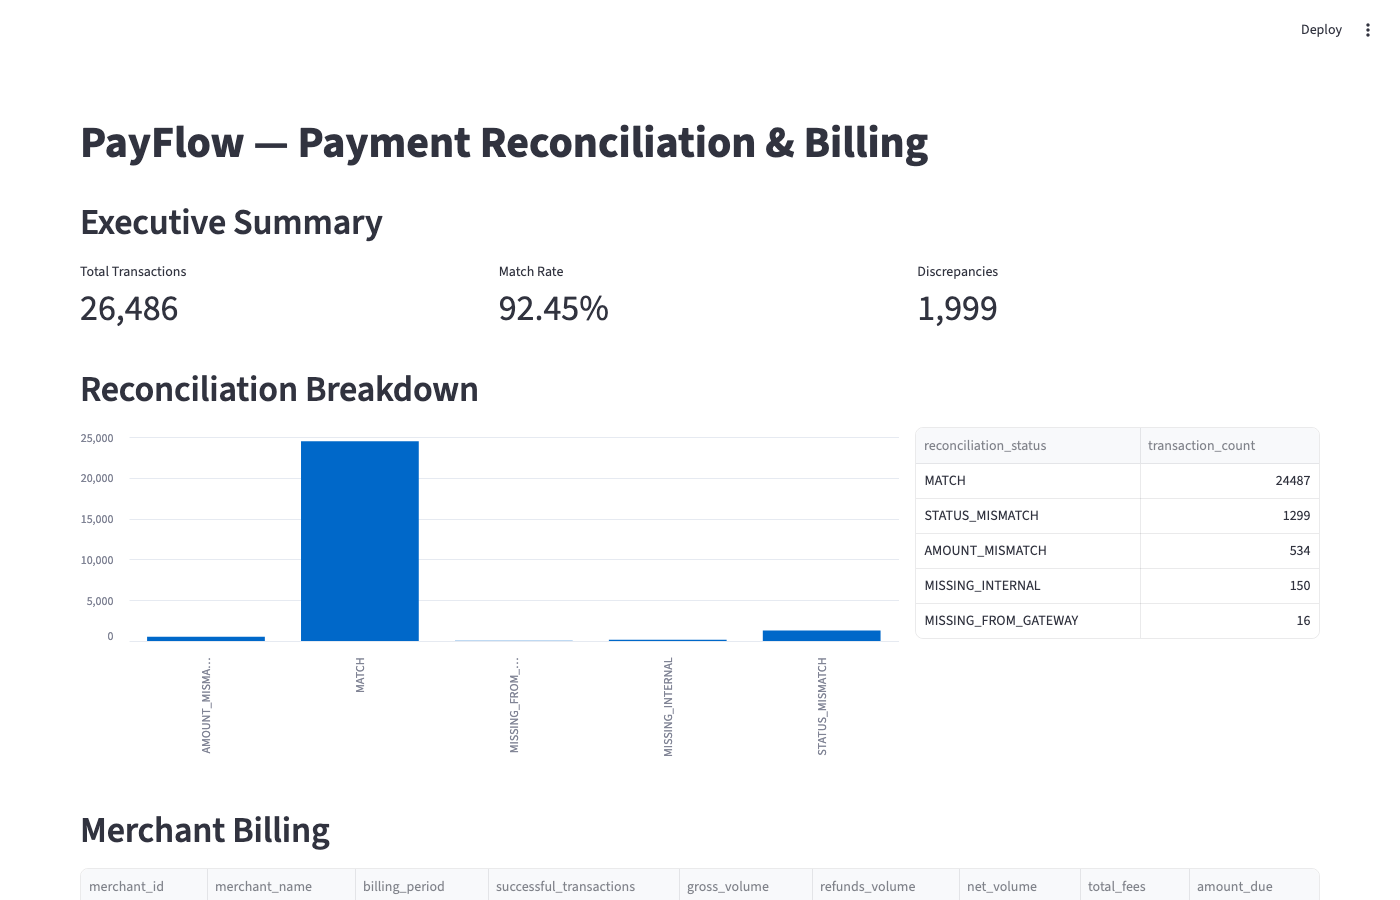
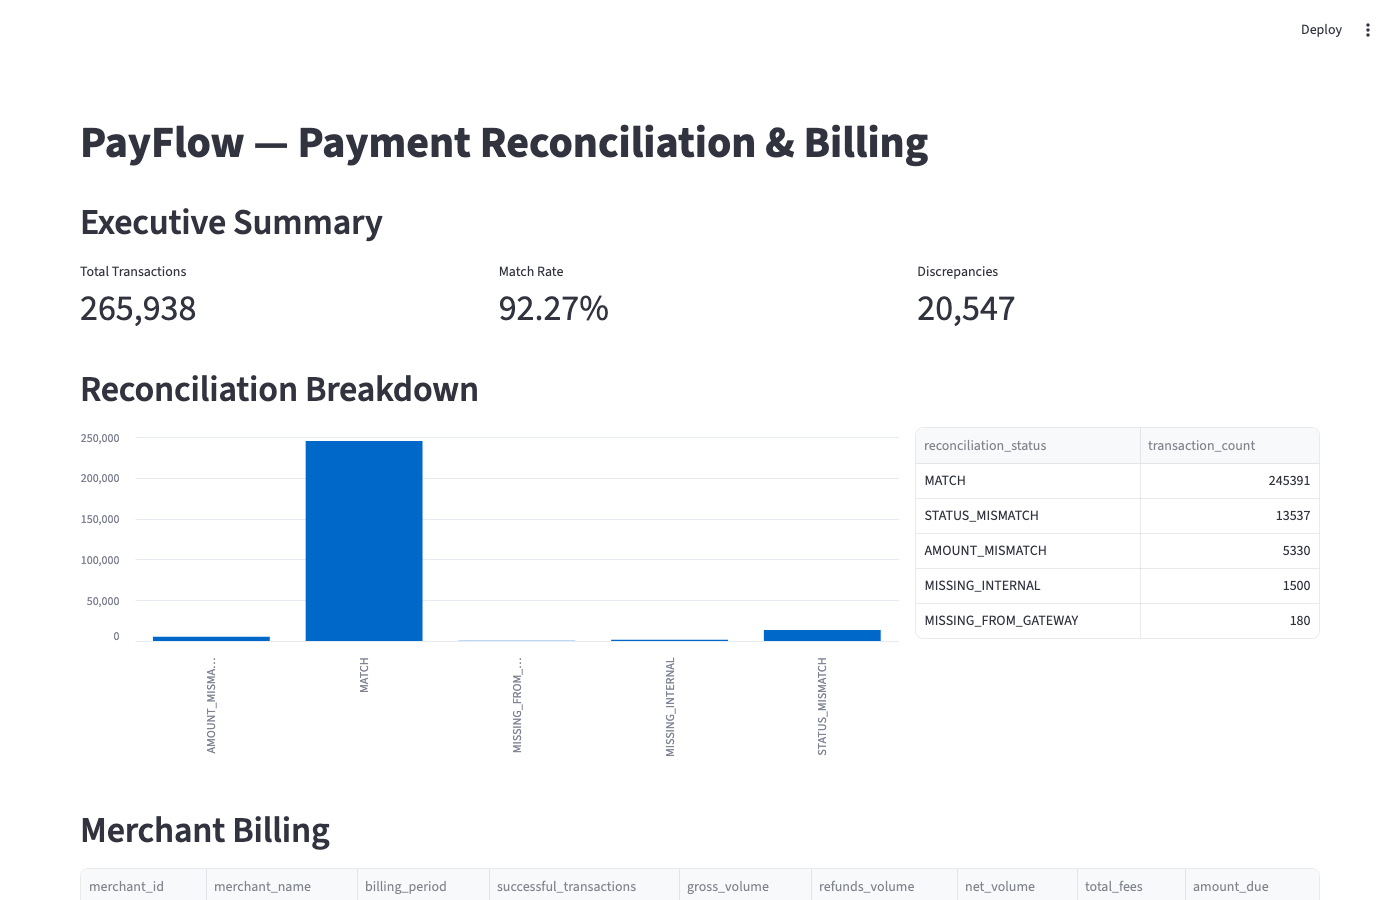
fix(ci): resolve dbt-tests seed duplicate and finalize scale-test tooling
- Use INSERT IGNORE in sample seed_gateway_transactions.sql so the deliberate
  TX003 duplicate no longer violates the silver_transactions unique key.
- Fix src/utils/db.py::test_connection() for SQLAlchemy 2.0 by wrapping the
  raw query in sqlalchemy.text().
- Add --num-transactions CLI to src/utils/generate_data.py.
- Add scripts/run_scale_test.py to automate schema reset, data generation,
  and Bronze/Silver/fact/reconciliation/billing timing runs.
- Refresh docs/assets/dashboard.png for the 100k-transaction dataset.

diff --git a/scripts/run_scale_test.py b/scripts/run_scale_test.py
@@ -1,0 +1,131 @@
+#!/usr/bin/env python3
+"""Run an end-to-end scale test and print a timing report.
+
+Usage:
+    python scripts/run_scale_test.py --num-transactions 100000
+
+The script assumes Docker MySQL is running on port 3307. It:
+1. Resets the payflow schema.
+2. Generates the synthetic dataset.
+3. Loads seed data.
+4. Runs Bronze -> Silver -> fact -> reconciliation -> billing.
+5. Prints a timing and row-count report.
+"""
+
+import argparse
+import subprocess
+import time
+from pathlib import Path
+
+PROJECT_ROOT = Path(__file__).resolve().parent.parent
+
+
+def run(cmd: list[str], description: str) -> float:
+    """Run a shell command from the project root and return elapsed seconds."""
+    print(f"\n>>> {description}")
+    start = time.perf_counter()
+    subprocess.run(cmd, cwd=PROJECT_ROOT, check=True)
+    elapsed = time.perf_counter() - start
+    print(f"    {elapsed:.2f}s")
+    return elapsed
+
+
+def mysql_cmd() -> list[str]:
+    return [
+        "mysql",
+        "-h", "127.0.0.1",
+        "-P", "3307",
+        "-u", "payflow",
+        "-ppayflow",
+        "payflow",
+    ]
+
+
+def main() -> None:
+    parser = argparse.ArgumentParser(description="PayFlow scale test")
+    parser.add_argument(
+        "--num-transactions",
+        type=int,
+        default=100_000,
+        help="Number of internal transactions to generate",
+    )
+    args = parser.parse_args()
+
+    print("=" * 60)
+    print(f"PayFlow Scale Test — {args.num_transactions:,} internal transactions")
+    print("=" * 60)
+
+    timings: dict[str, float] = {}
+
+    # 1. Reset schema
+    schema_path = PROJECT_ROOT / "sql" / "schema" / "01_create_database.sql"
+    print("\n>>> Reset database schema")
+    start = time.perf_counter()
+    with open(schema_path, "rb") as f:
+        subprocess.run(mysql_cmd(), stdin=f, cwd=PROJECT_ROOT, check=True)
+    timings["reset_schema"] = time.perf_counter() - start
+    print(f"    {timings['reset_schema']:.2f}s")
+
+    # 2. Generate data
+    timings["generate_data"] = run(
+        [".venv/bin/python", "-m", "src.utils.generate_data", "--num-transactions", str(args.num_transactions)],
+        "Generate synthetic data",
+    )
+
+    # 3. Load seed data
+    seed_path = PROJECT_ROOT / "data" / "generated" / "seed_data.sql"
+    start = time.perf_counter()
+    with open(seed_path, "rb") as f:
+        subprocess.run(mysql_cmd(), stdin=f, cwd=PROJECT_ROOT, check=True)
+    timings["load_seed"] = time.perf_counter() - start
+    print(f"    {timings['load_seed']:.2f}s")
+
+    # 4. Bronze
+    timings["bronze"] = run(
+        [".venv/bin/python", "-m", "src.transformation.load_bronze", "--source", "data/generated/raw"],
+        "Load Bronze layer",
+    )
+
+    # 5. Silver
+    timings["silver"] = run(
+        [".venv/bin/python", "-m", "src.transformation.silver_cleaner"],
+        "Clean Bronze -> Silver",
+    )
+
+    # 6. Fact table
+    fact_sql = PROJECT_ROOT / "sql" / "transformation" / "populate_fact_transaction.sql"
+    start = time.perf_counter()
+    with open(fact_sql, "rb") as f:
+        subprocess.run(mysql_cmd(), stdin=f, cwd=PROJECT_ROOT, check=True)
+    timings["fact"] = time.perf_counter() - start
+    print(f"    {timings['fact']:.2f}s")
+
+    # 7. Reconciliation
+    rec_sql = PROJECT_ROOT / "sql" / "reconciliation" / "reconcile_transactions.sql"
+    start = time.perf_counter()
+    with open(rec_sql, "rb") as f:
+        subprocess.run(mysql_cmd(), stdin=f, cwd=PROJECT_ROOT, check=True)
+    timings["reconciliation"] = time.perf_counter() - start
+    print(f"    {timings['reconciliation']:.2f}s")
+
+    # 8. Billing
+    bill_sql = PROJECT_ROOT / "sql" / "billing" / "generate_billing.sql"
+    start = time.perf_counter()
+    with open(bill_sql, "rb") as f:
+        subprocess.run(mysql_cmd(), stdin=f, cwd=PROJECT_ROOT, check=True)
+    timings["billing"] = time.perf_counter() - start
+    print(f"    {timings['billing']:.2f}s")
+
+    # Summary
+    total = sum(timings.values())
+    print("\n" + "=" * 60)
+    print("Scale Test Summary")
+    print("=" * 60)
+    for stage, elapsed in timings.items():
+        print(f"  {stage:20s}: {elapsed:6.2f}s")
+    print(f"  {'total':20s}: {total:6.2f}s")
+    print(f"\nDataset: {args.num_transactions:,} internal transactions")
+
+
+if __name__ == "__main__":
+    main()

diff --git a/src/utils/generate_data.py b/src/utils/generate_data.py
@@ -684,13 +684,14 @@ def main() -> None:
     parser.add_argument(
         "--num-transactions",
         type=int,
-        default=NUM_TRANSACTIONS,
+        default=None,
         help="Number of internal transactions to generate (default: 10,000)",
     )
     args = parser.parse_args()
 
     global NUM_TRANSACTIONS, EXTRA_GATEWAY_TRANSACTIONS
-    NUM_TRANSACTIONS = args.num_transactions
+    if args.num_transactions is not None:
+        NUM_TRANSACTIONS = args.num_transactions
     EXTRA_GATEWAY_TRANSACTIONS = max(150, int(NUM_TRANSACTIONS * 0.015))
 
     OUTPUT_DIR.mkdir(parents=True, exist_ok=True)

diff --git a/src/utils/db.py b/src/utils/db.py
@@ -1,6 +1,6 @@
 """PayFlow — database connection helper."""
 
-from sqlalchemy import create_engine
+from sqlalchemy import create_engine, text
 from sqlalchemy.engine import Engine
 
 from src.utils.config import DB_URL
@@ -16,7 +16,7 @@ def test_connection() -> bool:
     engine = get_engine()
     try:
         with engine.connect() as conn:
-            result = conn.execute("SELECT 1")
+            result = conn.execute(text("SELECT 1"))
             return result.scalar() == 1
     except Exception:
         return False
